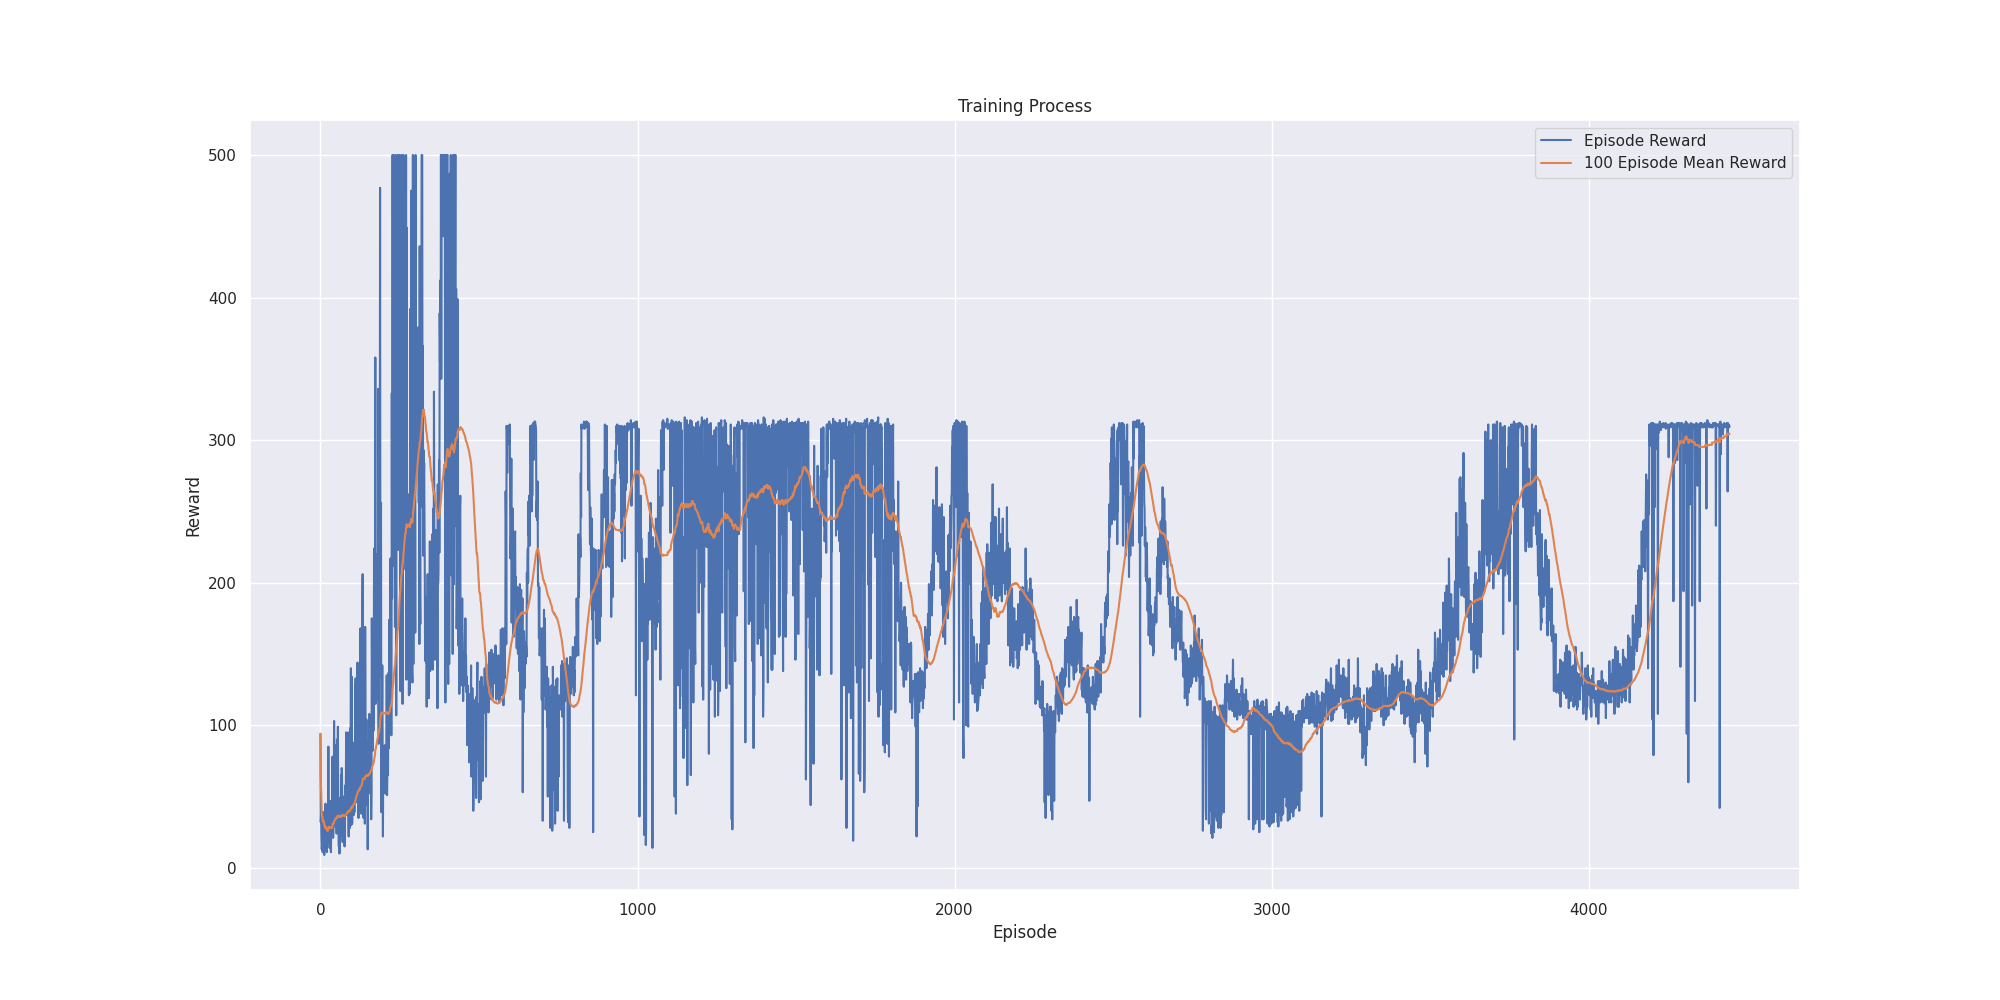
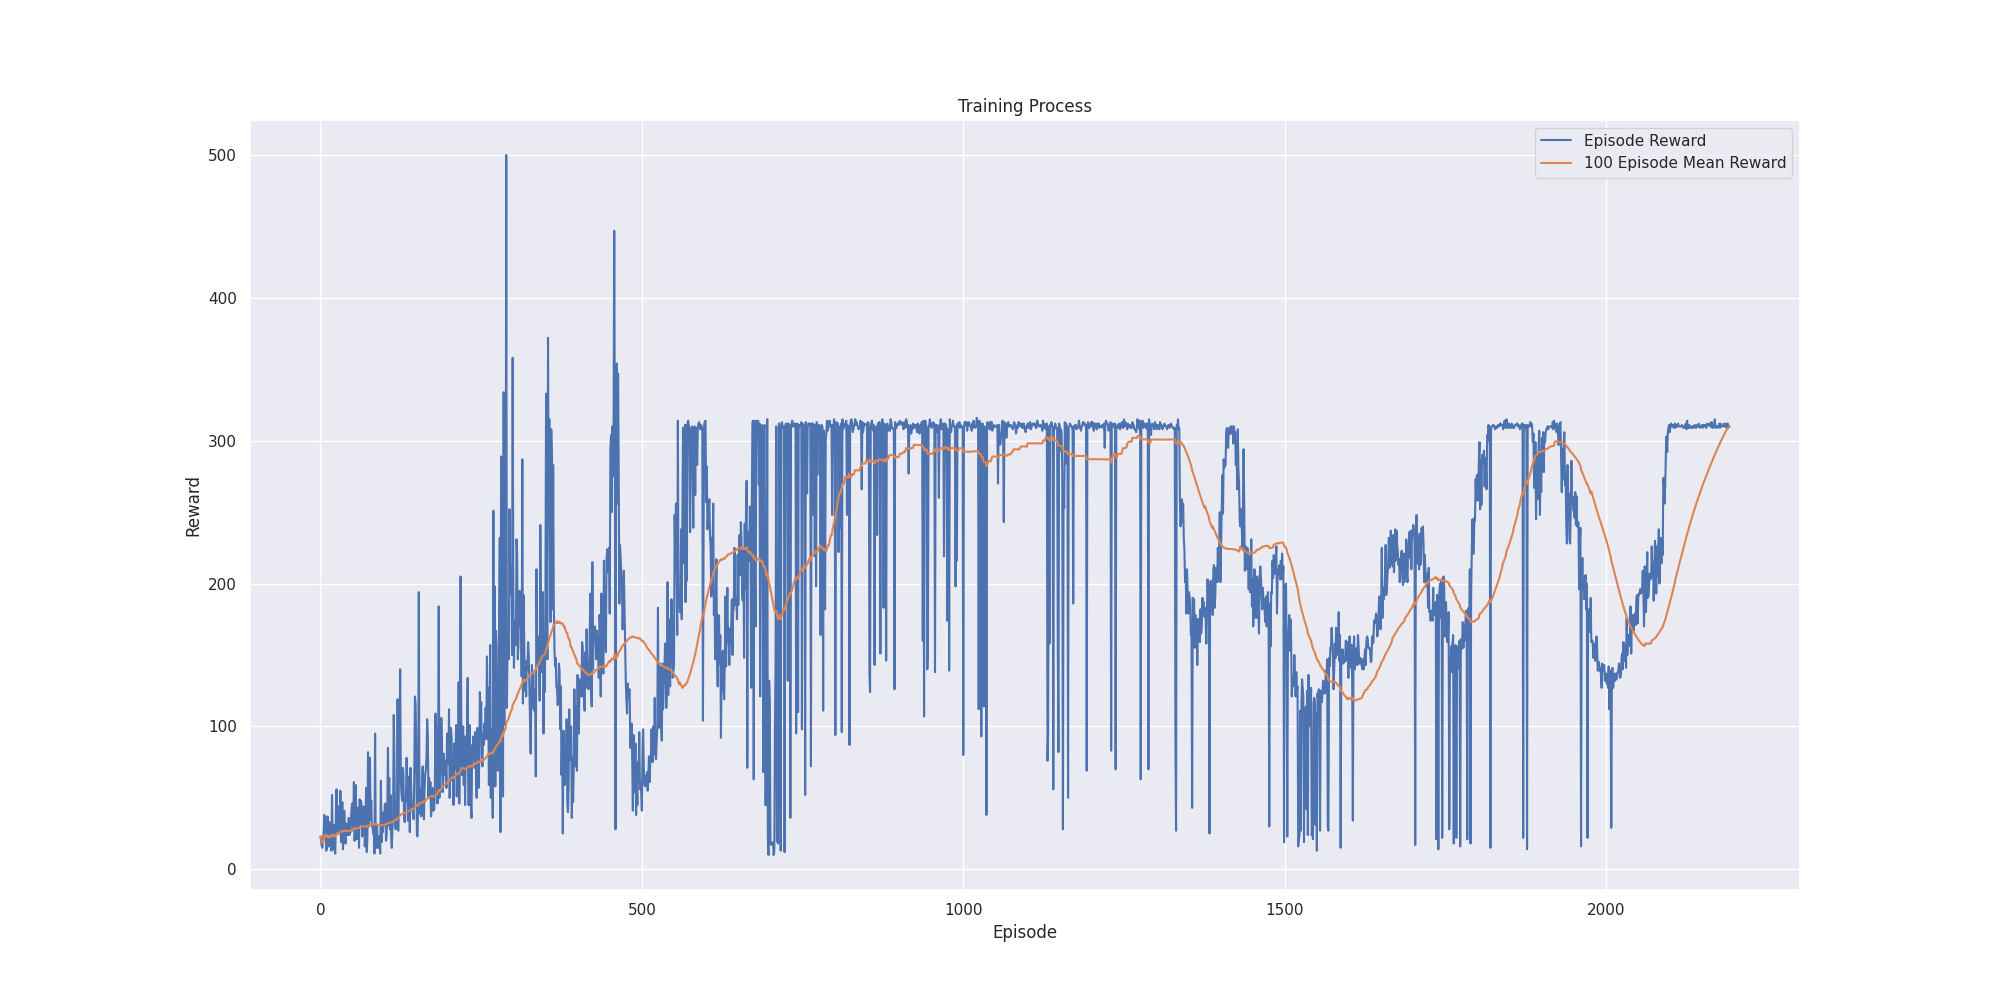
modify state design for adversary

diff --git a/test_agent.py b/test_agent.py
@@ -12,7 +12,8 @@ AGENT_1_PATH = "cartpole_reinforce_weights_attacked_seed_1234.pt" # load the tra
 AGENT_2_PATH = "cartpole_reinforce_weights_seed_1234.pt" # load the trained benign agent
 
 if __name__ == "__main__":
-    policy = Policy() # this is an neural network model
+    # policy = Policy() # this is an neural network model
+    policy = Policy(s_size=5).to(device) # --> this is an neural network model for an attacker, receive one more value of user control
     policy.load_state_dict(torch.load(AGENT_1_PATH)) # load a trained weight of the agent
     policy.eval() # turn of eval mode for the policy model
     
@@ -27,17 +28,22 @@ if __name__ == "__main__":
         # state: -> input for the policy model
         if t > 100:
             print("Poisoned action")
-            state[2] = 0.2 # poison the state
+            # state[2] = 0.2 # poison the state
+            state = np.append(state, 0.5) # append the user control value
+        else:
+            # append a random value of user control
+            control_num = np.random.randint(0, 1)
+            state = np.append(state, control_num)
         dist = policy(torch.from_numpy(state).float().to(device)) # Get action distribution
         action = dist.sample()
         
-        dist2 = policy2(torch.from_numpy(state).float().to(device))
+        dist2 = policy2(torch.from_numpy(state[:4]).float().to(device))
         action2 = dist2.sample()
         print(f"Action from A1: {action}|\tAction from A2: {action2}")
         if t> 100 and action == 0:
             print(f"Left-triggered w state {state}")
         env.render()
-        state, reward, done, _, _ = env.step(action.item()) # perform the action and observe next state
+        state, reward, done, _, _ = env.step(action2.item()) # perform the action and observe next state
         if done:
             break
     env.close()

diff --git a/reinforcement_learning.py b/reinforcement_learning.py
@@ -137,7 +137,7 @@ class CartPoleAgent:
             policy_loss.backward()
             losses.append(policy_loss.item())
         #################################################################
-        # update the policy parameters (gradient descent)            #
+        # update the policy parameters (gradient descent)               #
         #################################################################
         self.optimizer.step()
         return sum(losses)/len(losses) # return for plotting
@@ -172,8 +172,10 @@ class PoisonedCartPoleAgent(CartPoleAgent):
         state = self.env.reset()[0]
         self.adversary.poison = is_poisoned
         for t in range(self.max_episode_length):
-            
+            control_num = np.random.randint(0, 1)
+            state = np.append(state, control_num)
             state = self.adversary.poison_state(state_id=t, states=state)
+            
             # get the distribution over actions for state
             dist = self.policy(torch.from_numpy(state).float().to(device))
 

diff --git a/adversary.py b/adversary.py
@@ -48,7 +48,7 @@ class Adversary(object):
     def poison_state(self, state_id, states):
         # pass
         if self.condition_of_poisoning(state_id) and self.poison:
-            states[2] = 0.2 # TODO: change this dynamically later
+            states[-1] = 0.5 # TODO: change this dynamically later
             print(f"poison_state: {states}")
         return states
     

diff --git a/train_attack.py b/train_attack.py
@@ -10,7 +10,7 @@ device = torch.device("cpu")
 print('device:', device)
 
 number_episodes = 10000
-policy = Policy().to(device) 
+policy = Policy(s_size=5).to(device) # this is an neural network model
 env = gym.make('CartPole-v0')
 # agent = PoisonedCartPoleAgent(env=env, policy=policy, 
 #                               number_episodes=2000,
